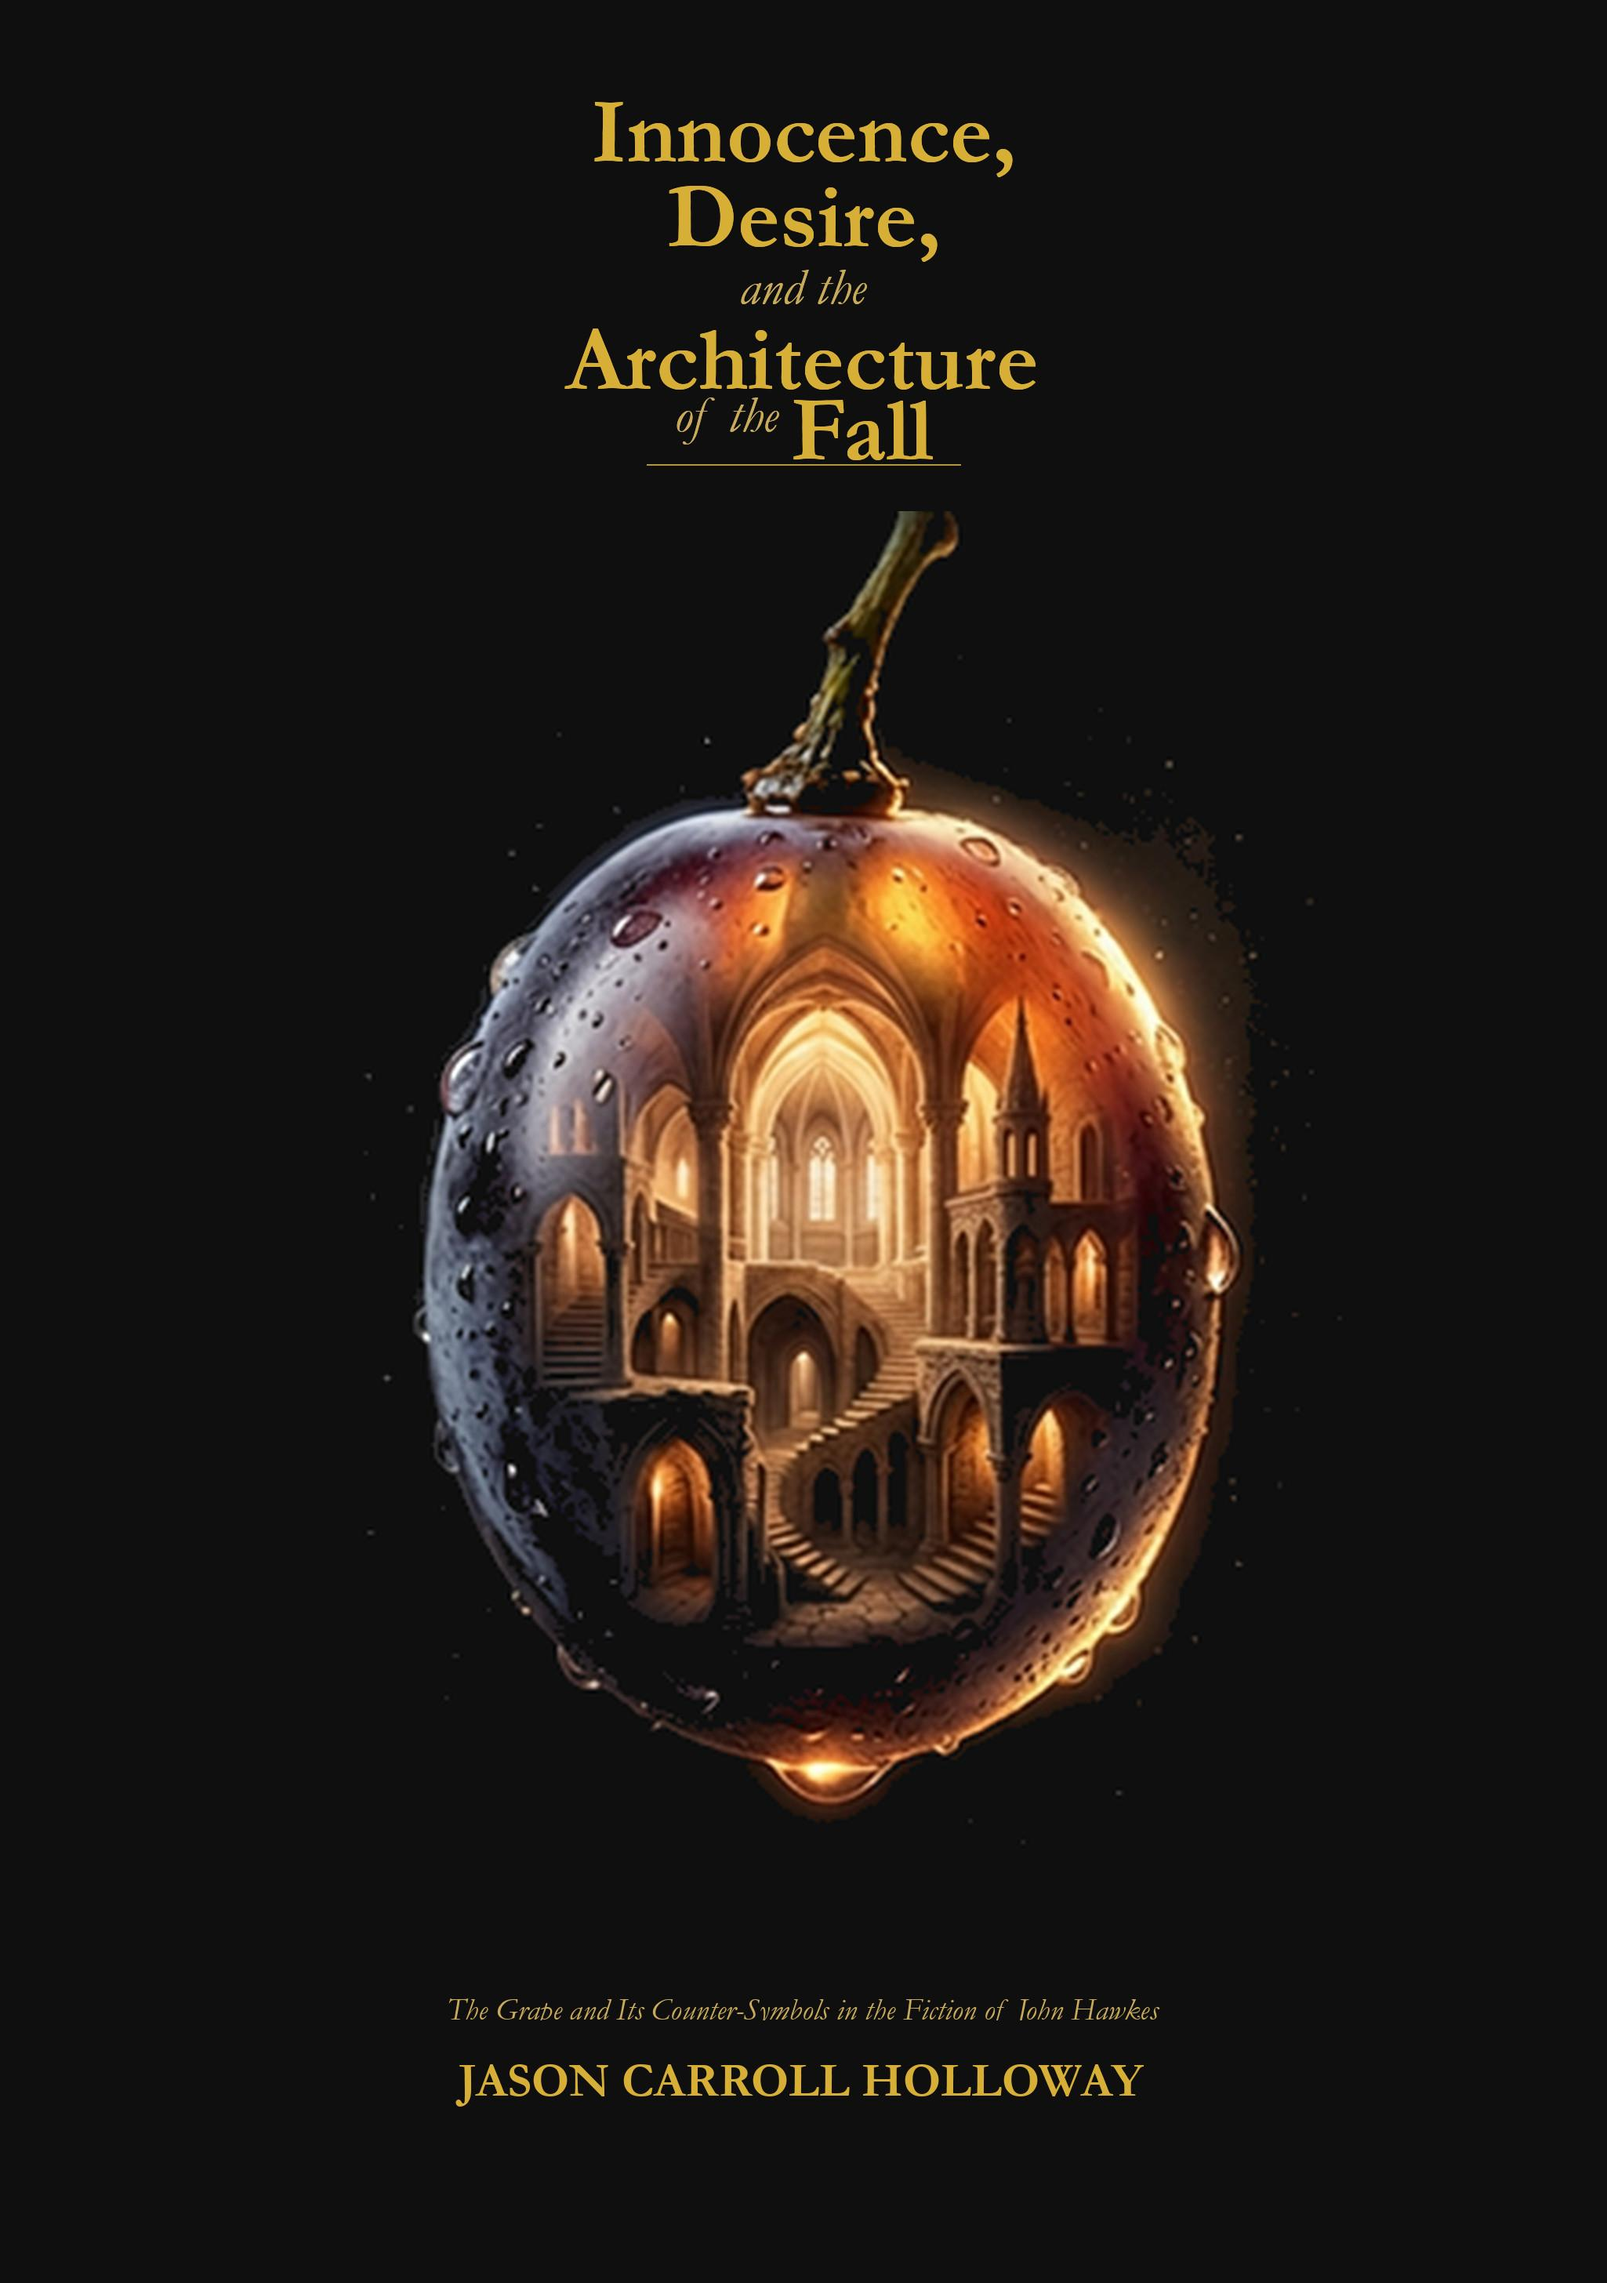
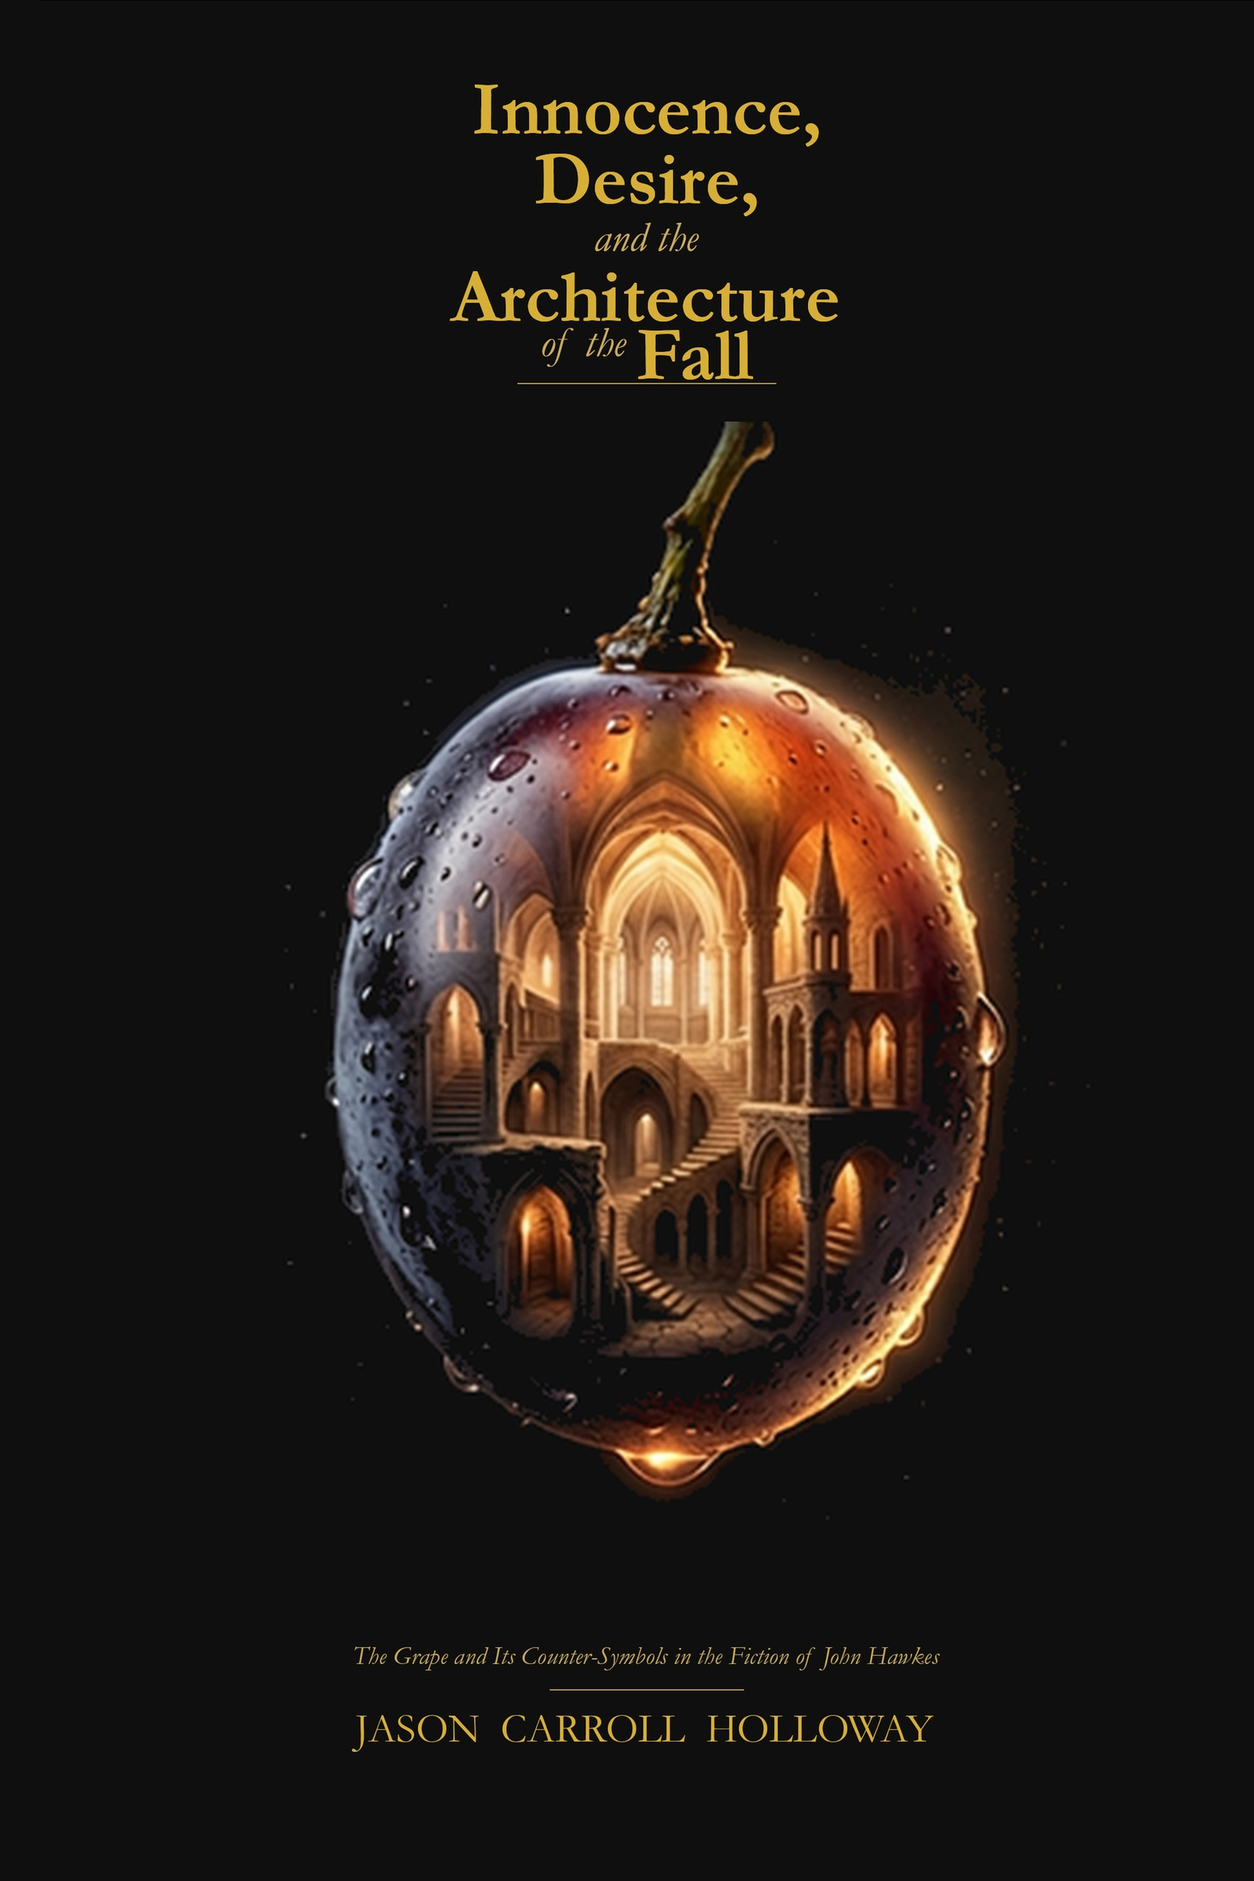
fix: update trilogy and omnibus covers for correct web display
Letterbox cover assets to 2:3, swap Book 3 ISBNs, and use object-fit contain so author names and ebook covers are not cropped on the site.

Changed region(s): [[0.25, 0.0312, 0.8125, 0.8125], [0.2812, 0.875, 0.7188, 0.9375]]

diff --git a/app/books/masters-x/page.tsx b/app/books/masters-x/page.tsx
@@ -144,12 +144,13 @@ export default function MastersXPage() {
                         overflow: "hidden",
                         boxShadow: "0 10px 30px rgba(0,0,0,0.5)",
                         width: "100%",
+                        background: "#000",
                       }}>
                         <Image
                           src={book.coverImagePB}
                           alt={`${book.subtitle} Paperback`}
                           fill
-                          style={{ objectFit: "cover" }}
+                          style={{ objectFit: "contain" }}
                           sizes="180px"
                           priority={i === 0}
                         />
@@ -164,12 +165,13 @@ export default function MastersXPage() {
                         overflow: "hidden",
                         boxShadow: "0 10px 30px rgba(0,0,0,0.5)",
                         width: "100%",
+                        background: "#000",
                       }}>
                         <Image
                           src={book.coverImageHC}
                           alt={`${book.subtitle} Hardcover`}
                           fill
-                          style={{ objectFit: "cover" }}
+                          style={{ objectFit: "contain" }}
                           sizes="180px"
                           priority={i === 0}
                         />
@@ -224,12 +226,13 @@ export default function MastersXPage() {
                     boxShadow: "0 20px 55px rgba(0,0,0,0.6)",
                     transform: "rotate(-3.5deg)",
                     zIndex: 1,
+                    background: "#000",
                   }}>
                     <Image
                       src={omnibus.coverImagePB}
                       alt={`${omnibus.subtitle} Paperback`}
                       fill
-                      style={{ objectFit: "cover" }}
+                      style={{ objectFit: "contain" }}
                       sizes="400px"
                     />
                   </div>
@@ -244,12 +247,13 @@ export default function MastersXPage() {
                     marginTop: "2rem",
                     marginLeft: "-2.5rem",
                     zIndex: 2,
+                    background: "#000",
                   }}>
                     <Image
                       src={omnibus.coverImageHC}
                       alt={`${omnibus.subtitle} Hardcover`}
                       fill
-                      style={{ objectFit: "cover" }}
+                      style={{ objectFit: "contain" }}
                       sizes="400px"
                     />
                   </div>

diff --git a/lib/data/books.ts b/lib/data/books.ts
@@ -48,7 +48,7 @@ export const books: Book[] = [
     title: "Masters X",
     subtitle: "The Inheritance of Frequency",
     coverImage: "/covers/book1-paperback.png",
-    coverImageHC: "/covers/book1-hardcover-v2.png",
+    coverImageHC: "/covers/book1-hardcover-v3.png",
     coverImagePB: "/covers/book1-paperback.png",
     qrCodePB: "/media/qr1.png",
     isbn_hc: "9798295800801",
@@ -84,7 +84,7 @@ export const books: Book[] = [
     title: "Masters X",
     subtitle: "The Grimoire",
     coverImage: "/covers/book2-paperback.png",
-    coverImageHC: "/covers/book2-hardcover.png",
+    coverImageHC: "/covers/book2-hardcover-v3.png",
     coverImagePB: "/covers/book2-paperback.png",
     qrCodePB: "/media/qr2.png",
     isbn_hc: "9798295812675",
@@ -118,11 +118,11 @@ export const books: Book[] = [
     title: "Masters X",
     subtitle: "The Kingdom",
     coverImage: "/covers/book3-paperback.png",
-    coverImageHC: "/covers/book3-hardcover-v2.png",
+    coverImageHC: "/covers/book3-hardcover-v3.png",
     coverImagePB: "/covers/book3-paperback.png",
     qrCodePB: "/media/qr3.png",
-    isbn_hc: "9798256010072", // Hardcover proof ISBN
-    isbn_pb: "9798295812705", // Paperback ISBN
+    isbn_hc: "9798295812705",
+    isbn_pb: "9798256010072",
     isbn_ebook: "9798256009809", // Ebook ISBN
     asin_hc: "B0GZCX3L8S",
     asin_pb: "B0H2L5Y1B3",
@@ -151,9 +151,9 @@ export const books: Book[] = [
     series: "Masters X",
     title: "Masters X",
     subtitle: "Omnibus Edition",
-    coverImage: "/covers/omnibus-cover-v4.jpg",
-    coverImageHC: "/covers/omnibus-cover-v4.jpg",
-    coverImagePB: "/covers/omnibus-cover-v4.jpg",
+    coverImage: "/covers/omnibus-hardcover-v3.png",
+    coverImageHC: "/covers/omnibus-hardcover-v3.png",
+    coverImagePB: "/covers/omnibus-hardcover-v3.png",
     isbn_hc: "9798295884412",
     isbn_pb: "9798256072704",
     asin_hc: "B0H364814B",

diff --git a/app/books/masters-x/[slug]/page.tsx b/app/books/masters-x/[slug]/page.tsx
@@ -228,12 +228,13 @@ export default function BookPage({ params }: Props) {
                       overflow: "hidden",
                       boxShadow: "0 15px 45px rgba(0,0,0,0.6)",
                       width: "100%",
+                      background: "#000",
                     }}>
                       <Image
                         src={book.coverImagePB}
                         alt={`${book.subtitle} Paperback Cover`}
                         fill
-                        style={{ objectFit: "cover" }}
+                        style={{ objectFit: "contain" }}
                         sizes="180px"
                         priority
                       />
@@ -248,12 +249,13 @@ export default function BookPage({ params }: Props) {
                       overflow: "hidden",
                       boxShadow: "0 15px 45px rgba(0,0,0,0.6)",
                       width: "100%",
+                      background: "#000",
                     }}>
                       <Image
                         src={book.coverImageHC}
                         alt={`${book.subtitle} Hardcover Cover`}
                         fill
-                        style={{ objectFit: "cover" }}
+                        style={{ objectFit: "contain" }}
                         sizes="180px"
                         priority
                       />

diff --git a/app/books/hawkes-monograph/page.tsx b/app/books/hawkes-monograph/page.tsx
@@ -144,13 +144,14 @@ export default function HawkesMonographPage() {
                   boxShadow: "0 12px 36px rgba(0,0,0,0.5)",
                   width: "100%",
                   maxWidth: "200px",
-                  margin: "0 auto"
+                  margin: "0 auto",
+                  background: "#000",
                 }}>
                   <Image
                     src={ed.cover}
                     alt={`Innocence, Desire, and the Architecture of the Fall Cover (${ed.format})`}
                     fill
-                    style={{ objectFit: "cover" }}
+                    style={{ objectFit: "contain" }}
                     sizes="200px"
                   />
                 </div>

diff --git a/content/catalog.ts b/content/catalog.ts
@@ -116,17 +116,17 @@ export const catalog: CatalogBook[] = [
     editions: [
       {
         format: "Paperback",
-        isbn: "9798295812705", // Locked Paperback ISBN
+        isbn: "9798256010072",
         asin: "B0H2L5Y1B3",
         price: "$14.95",
         specifications: "Trade Paperback · 6x9 in"
       },
       {
         format: "Hardcover",
-        isbn: "9798256010072", // Reconciled from printed HC proof
+        isbn: "9798295812705",
         asin: "B0GZCX3L8S",
         price: "$24.95",
-        specifications: "Case Laminate Hardcover · 6x9 in"
+        specifications: "Digital Cloth™ Cover w/Jacket · 6.14×9.21 in"
       },
       {
         format: "Ebook",

diff --git a/CANON.md b/CANON.md
@@ -30,8 +30,8 @@ This file documents the locked narrative, biographical, and bibliographical fact
     *   *Vol. II Hardcover:* 9798295812675
     *   *Vol. II Paperback:* 9798256009953
     *   *Vol. II Ebook:* 9798256009625
-    *   *Vol. III Hardcover:* 9798256010072 *(Reconciled from printed proof)*
-    *   *Vol. III Paperback:* 9798295812705
+    *   *Vol. III Hardcover:* 9798295812705 *(Ingram catalog, July 2026)*
+    *   *Vol. III Paperback:* 9798256010072
     *   *Vol. III Ebook:* 9798256009809
     *   *Omnibus Hardcover:* 9798295884412
     *   *Omnibus Paperback:* 9798256072704
